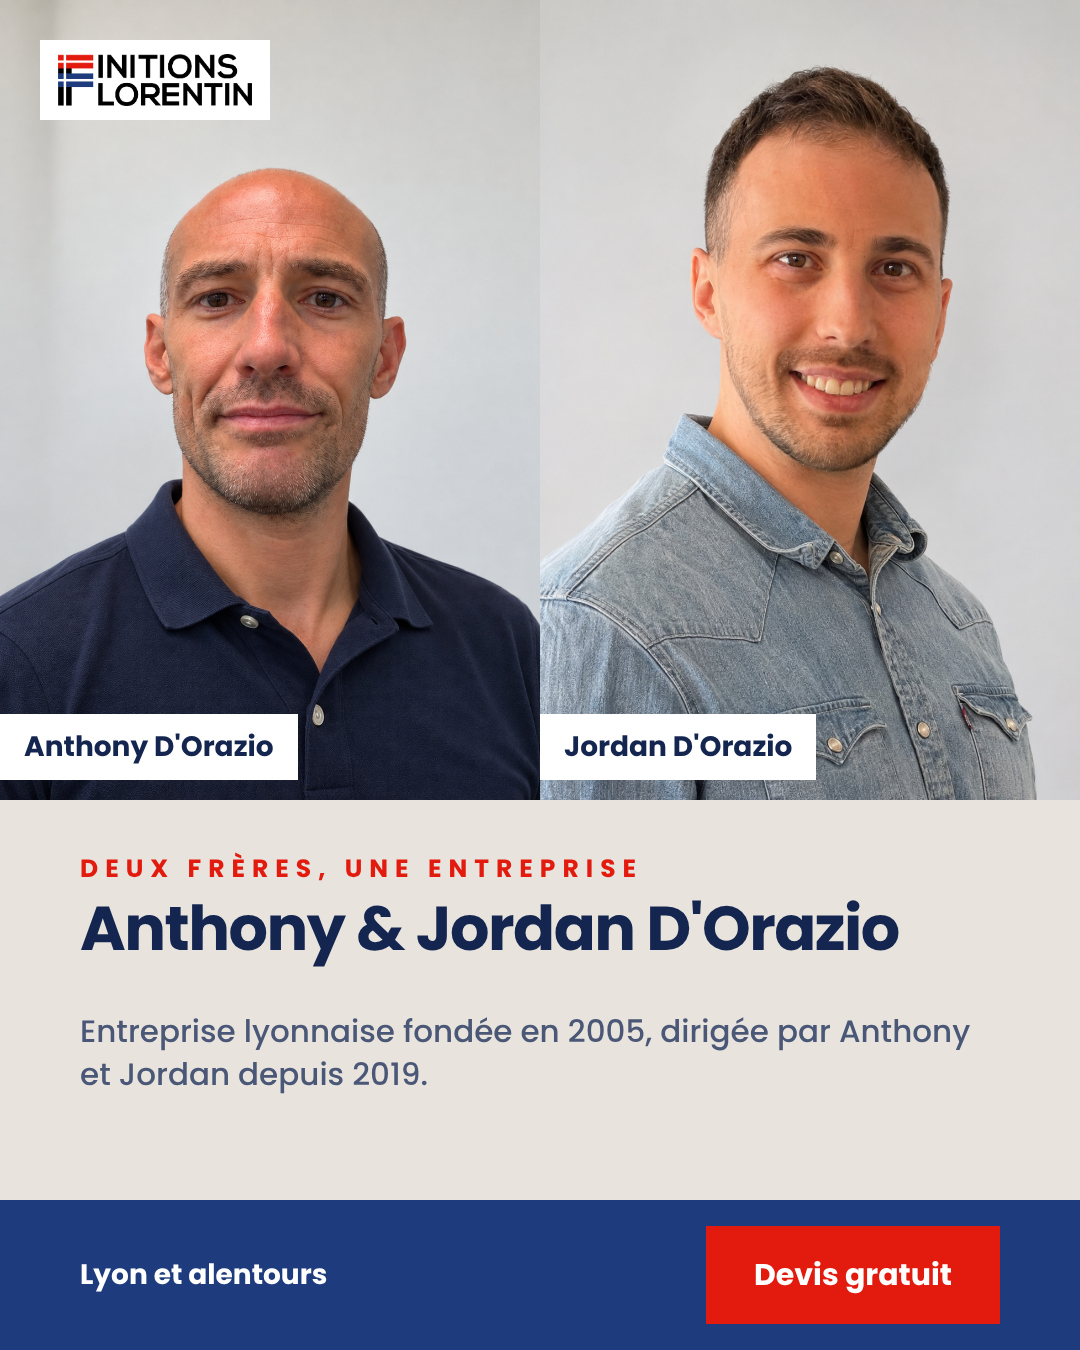
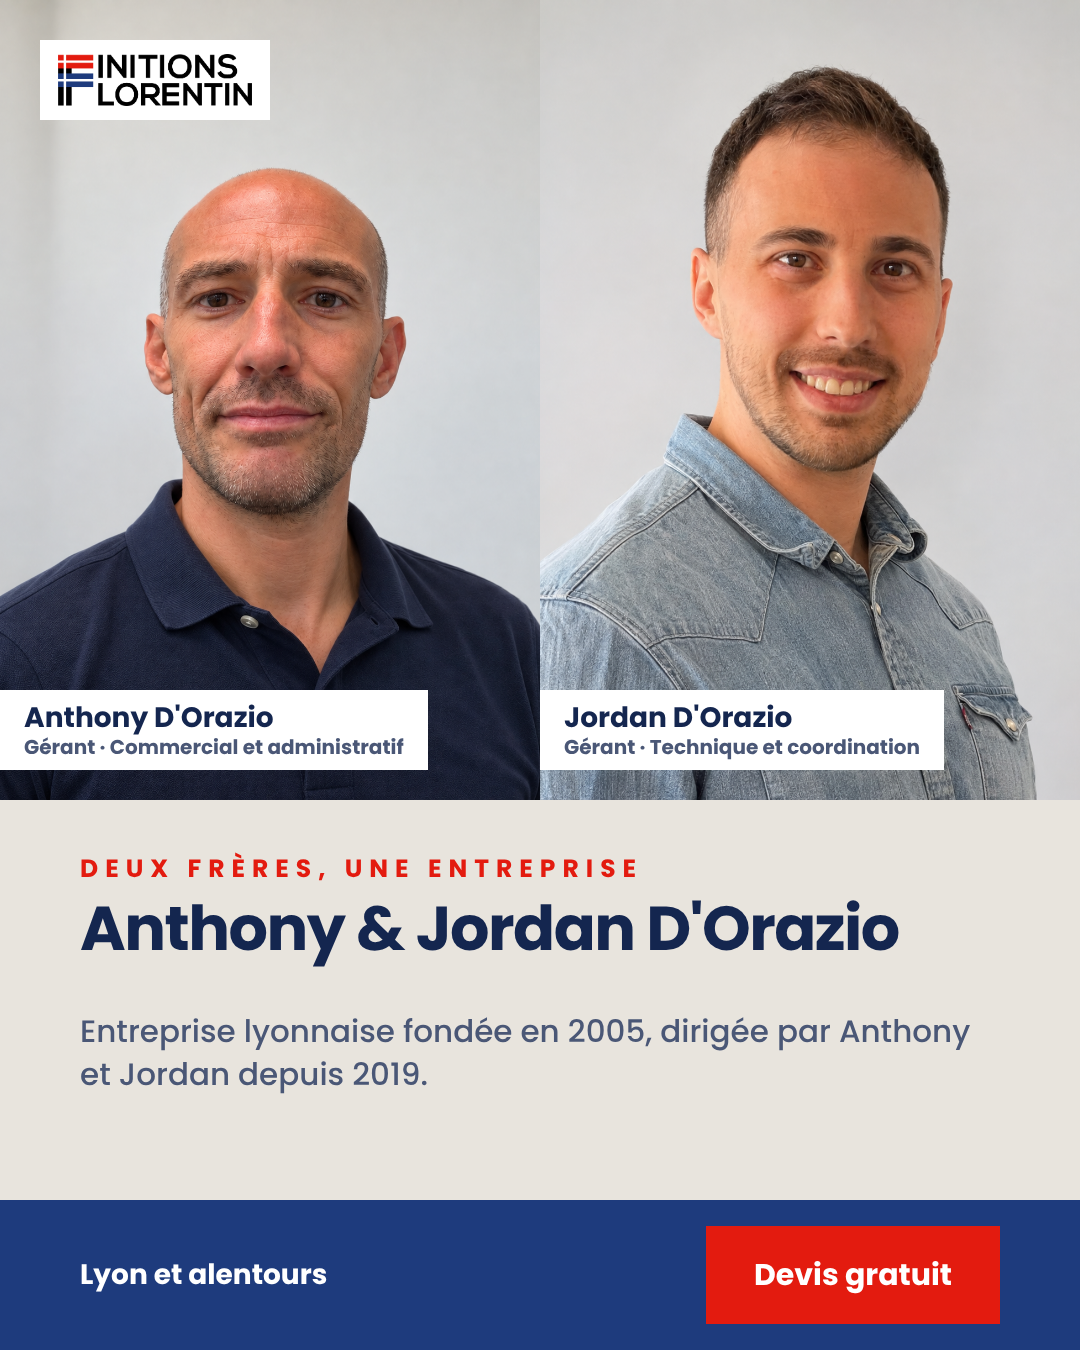
Duo: rôles des gérants sur le visuel
Claude-Session: https://claude.ai/code/session_01LyxsXe8xqb1EZ7c4QQAmih

Changed region(s): [[0.0, 0.4978, 0.3972, 0.5911], [0.4889, 0.4978, 0.8861, 0.5911]]

diff --git a/tools/duo_equipe.py b/tools/duo_equipe.py
@@ -8,7 +8,7 @@ def html(a,j):
     T=R.TH['pierre']
     return f'''<style>*{{margin:0;box-sizing:border-box}}body{{width:1080px;height:1350px;position:relative;overflow:hidden;font-family:Poppins,sans-serif;background:{T["bg"]};color:{T["t"]}}}
 .p{{position:absolute;top:0;width:540px;height:800px;object-fit:cover;object-position:50% 25%}}
-.n{{position:absolute;top:714px;background:#fff;color:{R.N};font-size:28px;font-weight:800;padding:12px 24px}}
+.n{{position:absolute;top:690px;background:#fff;color:{R.N};font-size:28px;font-weight:800;padding:10px 24px;line-height:1.25}}.n small{{display:block;font-size:20px;font-weight:600;color:#4A5776}}
 .lg{{position:absolute;left:40px;top:40px;width:230px;padding:14px 18px;background:#fff}}
 .k{{position:absolute;left:80px;top:850px;font-size:25px;font-weight:700;letter-spacing:7px;color:{T["k"]}}}
 .t{{position:absolute;left:80px;top:896px;width:920px;font-size:62px;line-height:1.08;font-weight:800;letter-spacing:-1.5px}}
@@ -16,7 +16,7 @@ def html(a,j):
 .foot{{position:absolute;left:0;right:0;bottom:0;height:150px;background:{T["foot"]};display:flex;justify-content:space-between;align-items:center;padding:0 80px}}
 .fl{{font-size:28px;font-weight:700;color:{T["fl"]}}}.btn{{background:{T["btn"]};color:{T["btnt"]};font-size:30px;font-weight:800;padding:26px 48px}}</style>
 <body><img class="p" style="left:0" src="{b(a)}"><img class="p" style="left:540px" src="{b(j)}">
-<img class="lg" src="{R.L}"><div class="n" style="left:0">Anthony D'Orazio</div><div class="n" style="left:540px">Jordan D'Orazio</div>
+<img class="lg" src="{R.L}"><div class="n" style="left:0">Anthony D'Orazio<small>Gérant · Commercial et administratif</small></div><div class="n" style="left:540px">Jordan D'Orazio<small>Gérant · Technique et coordination</small></div>
 <div class="k">DEUX FRÈRES, UNE ENTREPRISE</div><div class="t">Anthony &amp; Jordan D'Orazio</div>
 <div class="s">Entreprise lyonnaise fondée en 2005, dirigée par Anthony et Jordan depuis 2019.</div>
 <div class="foot"><div class="fl">Lyon et alentours</div><div class="btn">Devis gratuit</div></div>'''
